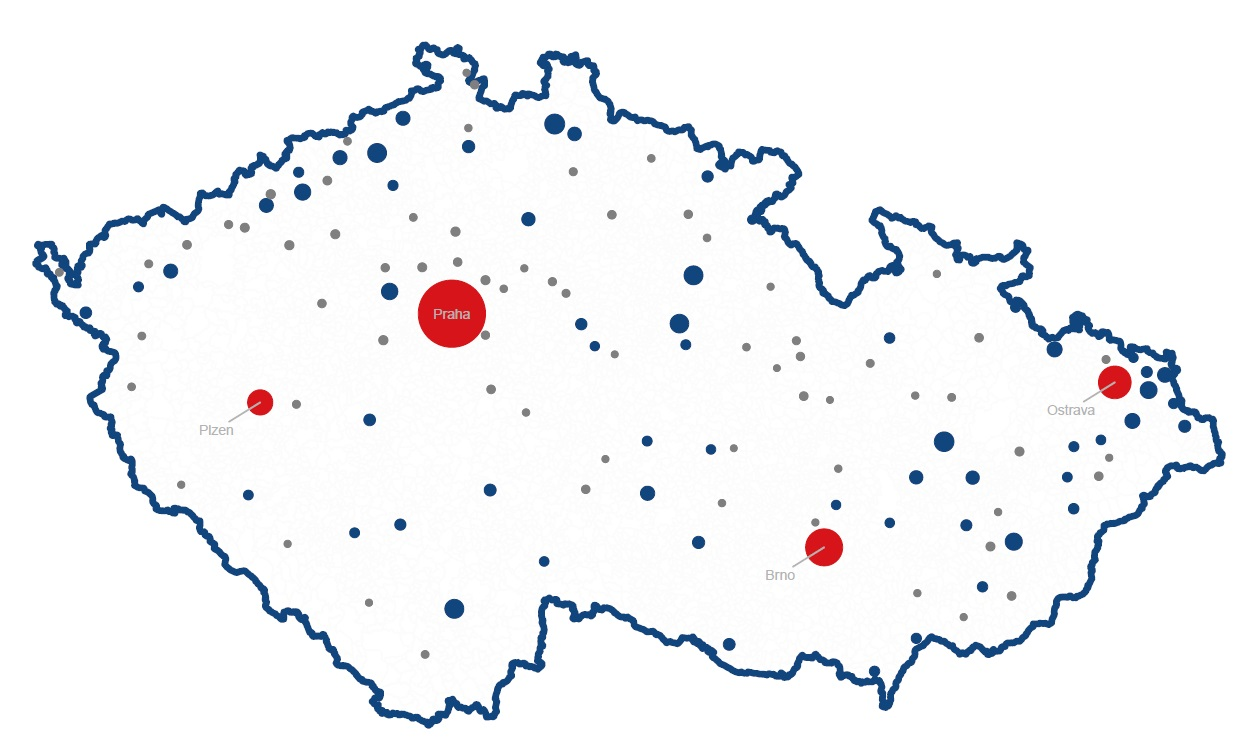
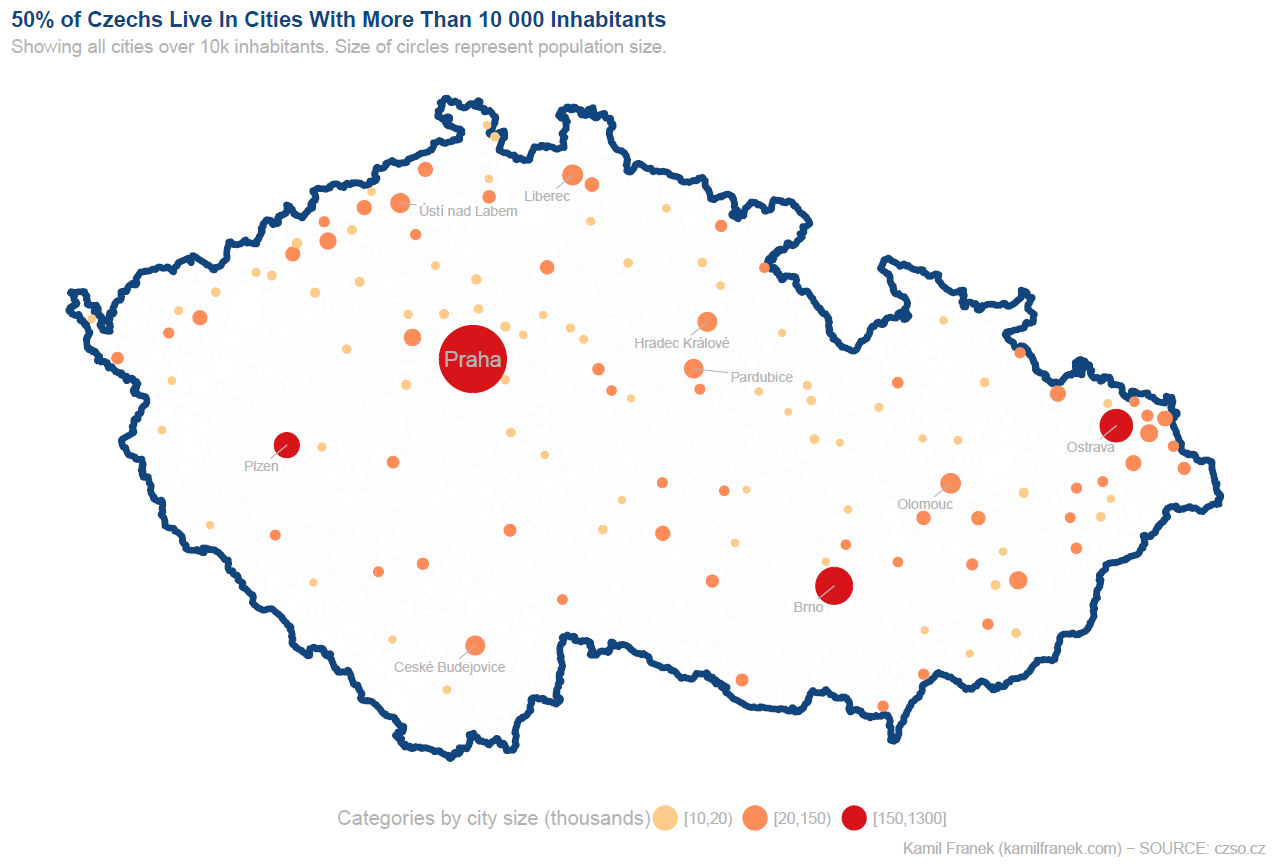
update first post

diff --git a/_posts/2017-11-24-where-do-your-czech-customers-live.md b/_posts/2017-11-24-where-do-your-czech-customers-live.md
@@ -4,13 +4,33 @@ categories:
 tags:
 excerpt: "Population distribution within Czech Republic."
 header:
-  teaser: "assets/images/map_cr_cities_bubbles.jpg"
+  teaser: "assets/images/map_cr_cities_density.jpg"
 ---
 If you are in physical retail business, it is crucial to know your demographics. Where do your customers live? Where is the biggest concentration? Do most people live in bigger cities or are they evenly spread out? What are the top cities? Which cities should I be present in? The following overview should give you high-level answers to those questions.
 
+<h2>Basic Overview</h2>
+Czechia (Czech Republic) is situated in middle of Europe. Neigboring with Germany, Austria, Poland and Slovakia.
+<figure>
+    <a href="/assets/images/map_cr_border.jpg"><img src="/assets/images/map_cr_border.jpg"></a>
+    <figcaption></figcaption>
+</figure>
+
+Average Population density 134 people per km2. It is above EU average (112 people). it is less densely inhabited than Germany and Great Brittain but more than France and Spain. Neighboring Poland has very similar density.
+
+
+<h2>130 Cities With Population Over 10 000 = 50% of Population</h2>
 <figure>
     <a href="/assets/images/map_cr_cities_bubbles.jpg"><img src="/assets/images/map_cr_cities_bubbles.jpg"></a>
-    <figcaption>Caption describing these two images.</figcaption>
+    <figcaption></figcaption>
+</figure>
+
+<h2>Population Density By City</h2>
+On the next map, we can also look at the same data in terms of population density. It is not surprising that the biggest cities are very densely populated but you can find also some other medium-sized towns with a high-density population. Moravia and North-South border with Germany are quite dense areas. On the other hand south of the Czech Republic below Prague is populated relatively sparsely, except few big cities.
+
+
+<figure>
+    <a href="/assets/images/map_cr_cities_density.jpg"><img src="/assets/images/map_cr_cities_density.jpg"></a>
+    <figcaption></figcaption>
 </figure>
 
 
